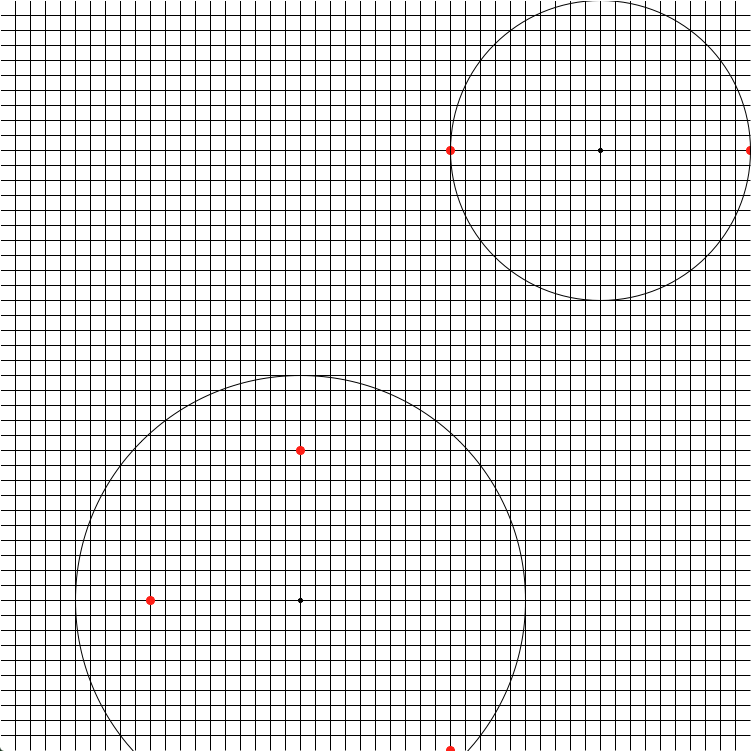
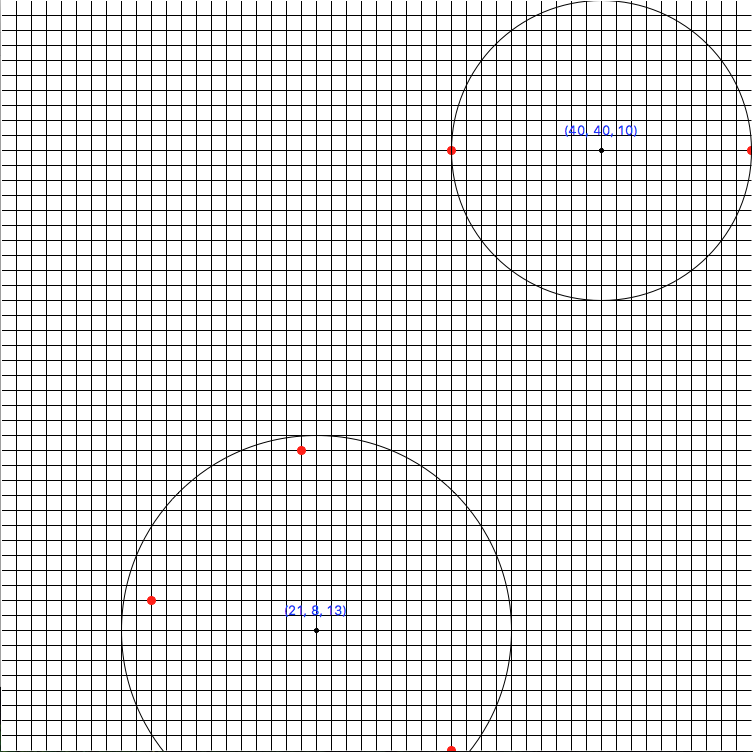
Amélioration de recherche locale et finalisation du rapport

Changed region(s): [[0.0, 0.0, 1.0, 1.0]]

diff --git a/TP1/Rapport.tex b/TP1/Rapport.tex
@@ -103,9 +103,9 @@ Abdelhadi \textsc{Temmar}\\
 \subsubsection{Représentation d'un état}
 Un état est composé de:
 \begin{itemize}
-	\item une liste des coordonnées des points restant à couvrir
-	\item une liste des antennes placées (position et rayon)
-	\item le coût requis par les antennes déjà placées
+	\item un ensemble comprenant les coordonnées des points restant à couvrir
+	\item un ensemble comprenant les antennes placées (position et rayon)
+%	\item le coût requis par les antennes déjà placées
 \end{itemize}
 
 \subsubsection{Etat initial}
@@ -129,6 +129,8 @@ Après plusieurs tests, l'algorithme de recherche en profondeur s'est avéré le
 
 L'algorithme de recherche au moindre de coût ne retourne toujours pas de résultat en 1h de recherche pour une taille de grille de $50 \times 50$.
 Nous avons donc essayé d'utiliser l'algorithme A* et de trouver une heuristique capable d'améliorer la recherche de moindre coût. Malheureusement aucune de nos heuristiques n'a donné de résultat concluant.
+
+Il a donc fallu faire un choix entre optimalité et rapidité. N'ayant pas trouvé une façon d'obtenir la solution optimale en moins d'une heure, nous avons préféré opter pour l'algorithme de recherche en profondeur qui garantit de trouver une solution convenable en un minimum de temps.
 
 
 
@@ -162,7 +164,10 @@ L'état final est atteint lorsque plus aucune fusion n'est possible.
 
 
 \subsection{Résultats}
-Cette méthode est considérablement plus rapide que la recherche arborescente, puisque le nombre d'opérations effectuées est bien moindre. Sur une grille de $50 \times 50$, on obtient une solution proche de l'optimale (voir figure \ref{50x50}) en moins d'une milliseconde. 
+Cette méthode est considérablement plus rapide que la recherche arborescente, puisque le nombre d'opérations effectuées est bien moindre. Sur une grille de $50 \times 50$, on obtient une solution proche de l'optimale (voir figure \ref{50x50}) en moins d'une milliseconde. Afin d'améliorer la solution, une fois toutes les fusions effectuées, on regarde pour chaque antenne si en la déplaçant dans un voisinage de $5 \times 5$ on peut réduire son rayon tout en continuant de couvrir les points qu'elle couvrait déjà. Cela permet d'améliorer la solution trouvée et de la rapprocher encore plus de l'optimale.
+
+\vspace{0.5cm}
+Nous choisissons donc notre implémentation locale pour le concours.
 
 \begin{figure}[H]
   \centering

diff --git a/TP1/Code/rechercheLocale.py b/TP1/Code/rechercheLocale.py
@@ -5,7 +5,7 @@ import time
 from math import *
 from copy import deepcopy
 import Tkinter as tk
-from random import *
+# from random import randint
 
 from Algorithmes.localSearchMadeHome import *
 
@@ -24,12 +24,13 @@ points30 = [(x,y) for x in range(5,11) for y in range(5,11)]
 points30.extend([(x,y) for x in range(20,26) for y in range(20,26)])
 points15 = [(10,3),(4,9),(8,10),(13,9),(14,11),(2,15)]
 points50 = [(10, 10),(20,20),(30, 0),(30, 40),(50, 40)]
-points50b = set()
-for i in range(1000):
-	points50b.add((randint(0,50),randint(0,50)))
+test = [(44, 34), (37, 36), (33, 3), (41, 4), (39, 33), (3, 1), (0, 18), (19, 34), (3, 38)]
+# points50b = set()
+# for i in range(1000):
+# 	points50b.add((randint(0,50),randint(0,50)))
 
 
-points = points50b
+points = points50
 
 
 def search(points, k, c):
@@ -73,8 +74,15 @@ for (x,y) in points:
 	nb += 1
 	canvas.create_circle(x*15,(grille[0]-y)*15,4,fill="red",outline="red")
 for (x,y,r) in solution:
+	txt = str((x,y,r))
 	canvas.create_circle(x*15,(grille[0]-y)*15,r*15)
 	canvas.create_circle(x*15,(grille[0]-y)*15,2,fill="black")
+	canvas.create_text(x*15,(grille[0]-y)*15 - 20,text=txt,fill="blue")
+
+# canvas.create_circle(10*15, 15*grille[0]-34*15, 9*15,outline="red")
+# canvas.create_circle(0*15, 15*grille[0]-9*15, 9*15,outline="red")
+# canvas.create_circle(36*15, 15*grille[0]-4*15, 5*15,outline="red")
+# canvas.create_circle(40*15, 15*grille[0]-34*15, 4*15,outline="red")
 
 print str(nb) + ' points'
 sortie = raw_input("Appuyez sur une touche pour quitter")

diff --git a/TP1/Code/Algorithmes/localSearchMadeHome.py b/TP1/Code/Algorithmes/localSearchMadeHome.py
@@ -9,7 +9,6 @@ def dist(p1,p2):
     return sqrt((x1-x2)**2 + (y1-y2)**2)
 
 def barycentre(points):
-    # print points
     x = 0
     y = 0
     n = len(points)
@@ -47,9 +46,20 @@ def localSearch(initialState, K, C):
                     ants.remove((x2,y2,r2, liste2))
                     break
         for (x,y,r,pointsCouverts) in initialState.antennas:
-            while (dist((x,y),p) for p in pointsCouverts) <= r:
-                r -= 1
-                print 'Rayon diminue'
+            maxDist = max(dist((x,y),p) for p in pointsCouverts)
+            improvement = False
+            for dx in range(-5,5):
+                for dy in range(-5,5):
+                    maxDistNew = max(dist((x+dx,y+dy),p) for p in pointsCouverts)
+                    if maxDistNew < maxDist:
+                        maxDist = maxDistNew
+                        dX = dx
+                        dY = dy
+                        improvement = True
+            if improvement:
+                initialState.antennas.remove((x,y,r,pointsCouverts))
+                initialState.antennas.append((x+dX,y+dY,int(ceil(maxDist)),pointsCouverts))
+
 
 
         return initialState.antennas
